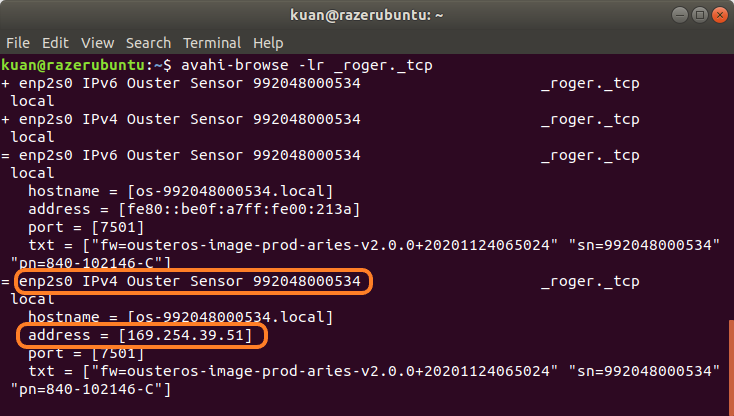
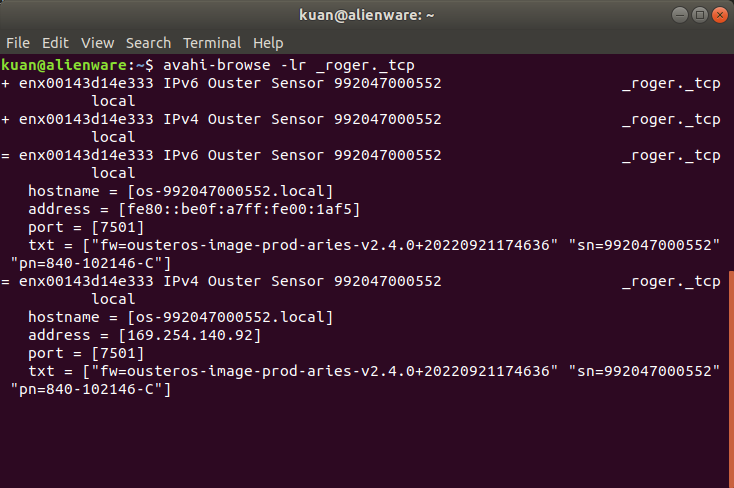
add point cloud filter and publisher

diff --git a/src/rgb_camera/src/pcl_project.py b/src/rgb_camera/src/pcl_project.py
@@ -1,0 +1,71 @@
+#!/usr/bin/env python3
+# -*- coding: utf-8 -*-
+"""
+Created on Mon Mar 15 17:36:49 2021
+
+@author: stephen
+"""
+import rospy
+from sensor_msgs.msg import PointCloud2
+from sensor_msgs.msg import PointField
+import sensor_msgs.point_cloud2 as pc2
+import numpy as np
+
+'''
+This node is for other lidar devices whose scan range can't be configured
+'''
+
+
+
+def callback(msg):
+    # obtain point cloud data
+    pcl_lst = []
+    
+    for p in pc2.read_points(msg, field_names = ("x", "y", "z", "intensity"), skip_nans=True):
+        
+        if p[0] > 0.0 :  # x range must  > 0.0 meter
+            #print(p)
+            pcl_lst.append(p)
+
+    pcl_np = np.array(pcl_lst).reshape(-1, 4)
+
+
+    ######## visualize converted point cloud
+    pt_cloud = PointCloud2()
+    pt_cloud.header.frame_id = msg.header.frame_id
+    pt_cloud.header.stamp = msg.header.stamp
+
+    pt_cloud.height = 1
+    pt_cloud.width = pcl_np.shape[0]
+        
+    dtype = np.float32
+    itemsize = np.dtype(dtype).itemsize
+        
+    pt_cloud.fields = [
+        PointField('x', 0, PointField.FLOAT32, 1),
+        PointField('y', 4, PointField.FLOAT32, 1),
+        PointField('z', 8, PointField.FLOAT32, 1),
+        PointField('intensity', 12, PointField.FLOAT32, 1)]
+    pt_cloud.is_bigendian = False
+    pt_cloud.point_step = itemsize * 4
+    pt_cloud.row_step = itemsize * 4 *pcl_np.shape[0]
+    pt_cloud.is_dense = False
+    pt_cloud.data = np.asarray(pcl_np, np.float32).tobytes()
+        
+    filter_pcl.publish(pt_cloud)  
+        
+                
+if __name__ == '__main__':
+    rospy.init_node('pcl_project', anonymous=True)
+    print("[+] Point Cloud Filter Node")  
+
+    filter_pcl = rospy.Publisher('pcl_filter', PointCloud2, queue_size=10)
+    rospy.Subscriber("/ouster/points", PointCloud2, callback)  
+    
+    rospy.spin()
+     
+
+       
+          
+
+    

diff --git a/hardware_setting/ouster_lidar_config.md b/hardware_setting/ouster_lidar_config.md
@@ -32,12 +32,18 @@ device ip = 10.5.5.1
 
 <img src="img/lidar_localIPV4_5.png" width = "600">
 
-`Ethernet device: enp2s0 connects to Ouster sensor. Lidar address 169.254.39.51`
+`Ethernet device: enx00143d14e333 connects to Ouster sensor. Lidar address 169.254.140.92`
 
 If IPv4 not shown, please turn off weired connect, and try again.  
 With lidar IP, we can check lidar information via web browser.
 
 <img src="img/lidar_localIPV4_6.png" width = "500">
+
+<br>5. Lidar connection</br>
+Run this command to check lidar connection
+> ping -c5 169.254.140.92  
+
+<img src="img/lidar_localIPV4_7.png" width = "600">
 
 <br>1. create ros workspace </br>
 > mkdir -p Lidar_Project/src
